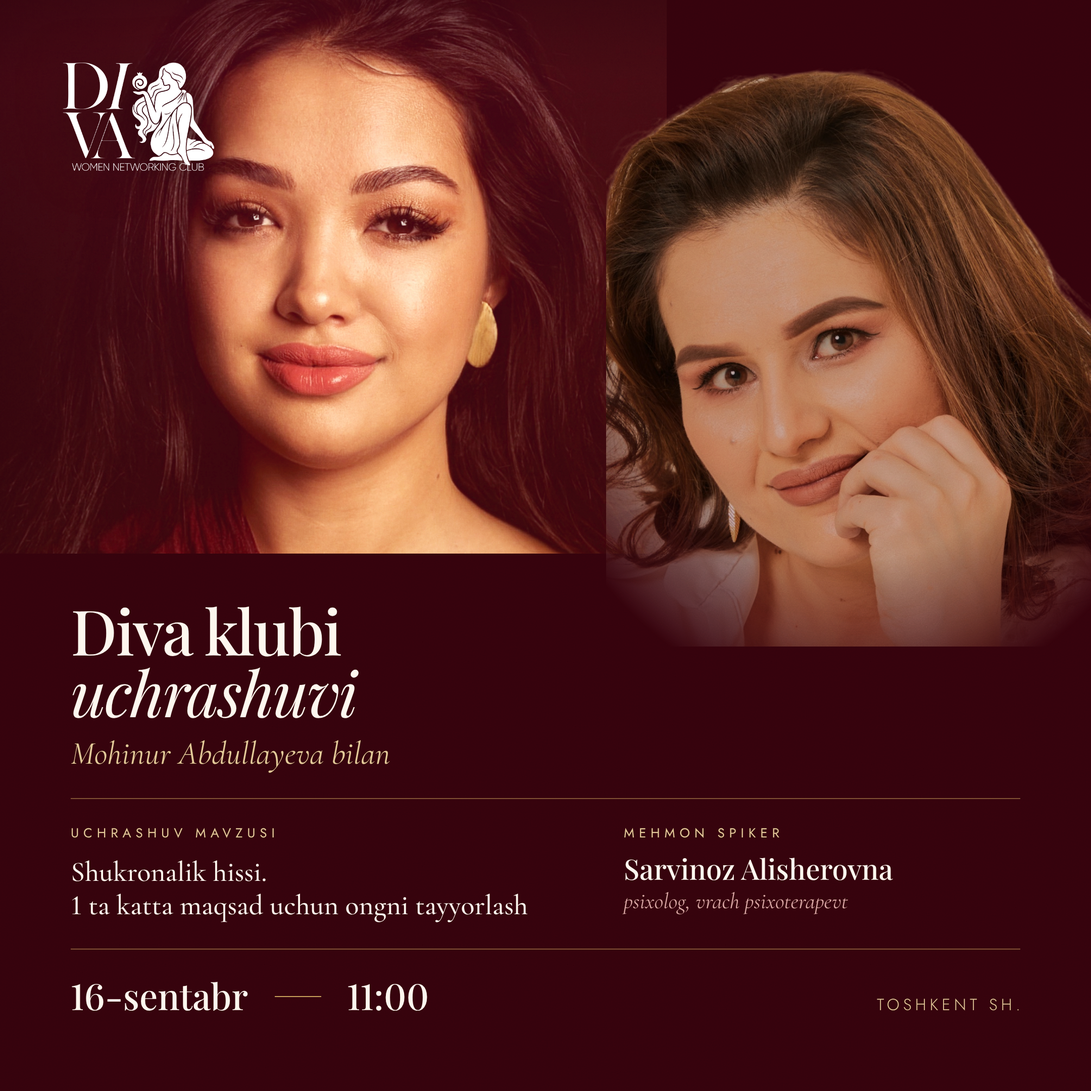
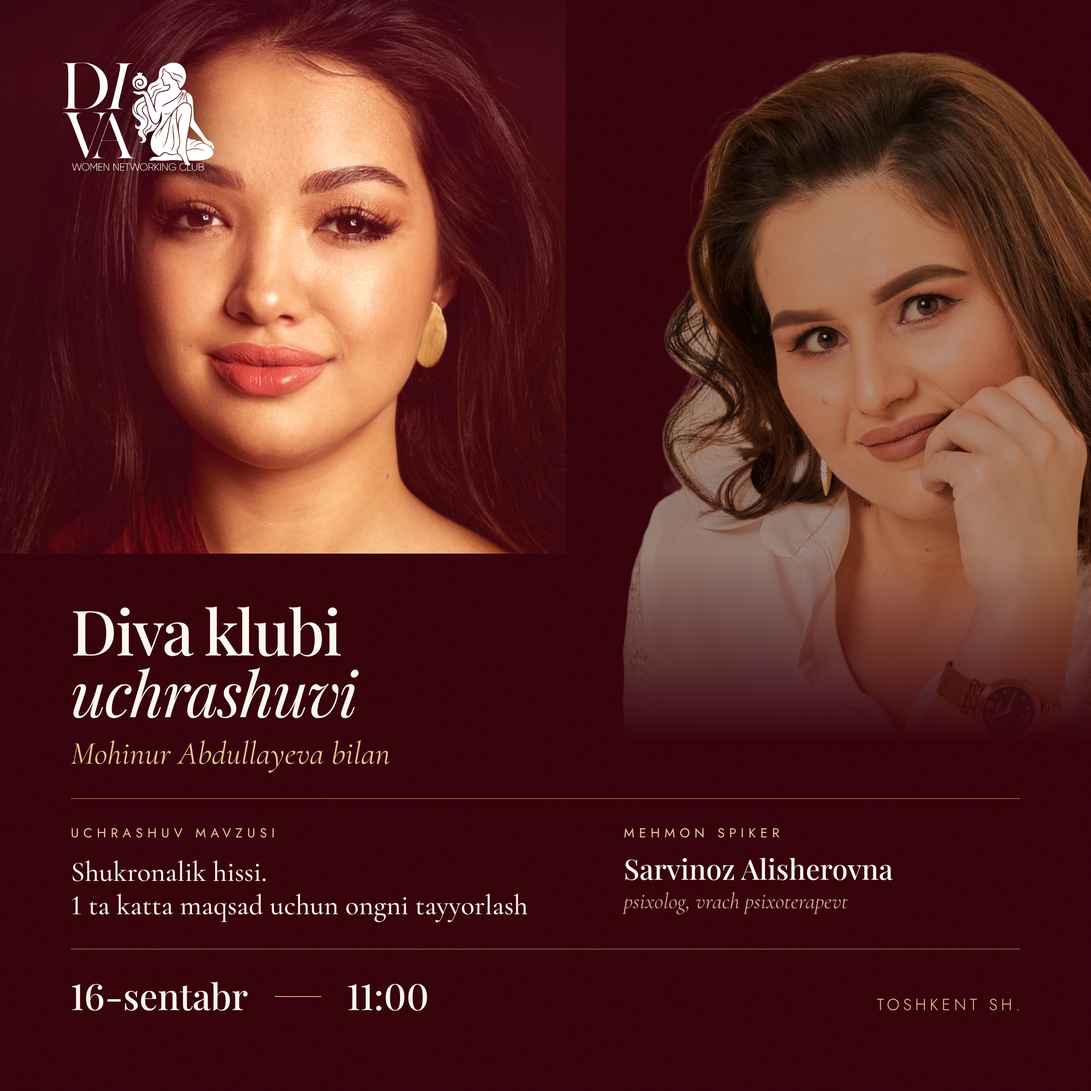
Rebuild direction A as modern maroon and free C's guest from her box
A drops the frame, the rings and the flourish: both women are cutouts
placed large, their lower bodies drunk by a maroon gradient masked to
their own silhouettes so they sink into the ground with no edge at all.

C's guest portrait was a pale rectangle sitting on maroon, which read as
the frame the redirect removes. She is now a cutout standing free in the
corner, cropped only by canvas edges, with a warm multiply masked to her
silhouette so she shares the hero's light instead of fighting it.

Claude-Session: https://claude.ai/code/session_01CJcxAKvhDYH9Z96uyo456t

Changed region(s): [[0.0931, 0.0, 1.0, 0.6514], [0.3412, 0.4963, 0.3722, 0.5273], [0.0931, 0.4032, 0.1241, 0.4343]]

diff --git a/diva-club-posts/variant-c.html b/diva-club-posts/variant-c.html
@@ -9,9 +9,10 @@
 /* =======================================================================
    VARIANT C — "Editorial"
    Photography leads. Mohinur full-bleed and enormous, her near-black studio
-   ground dissolved into deep maroon. A modern fashion-magazine grid:
-   two hairline gold rules, small-caps Jost labels, oversized Playfair.
-   No frames, no circles, no ornament.
+   ground dissolved into deep maroon. Sarvinoz is a background-removed cutout
+   standing directly on that maroon, cropped only by the canvas edges — the
+   same bleed Mohinur gets. No boxes, no frames, no circles, no ornament.
+   Structure is two gold hairlines and a modern Jost/Playfair grid.
    ======================================================================= */
 
 .canvas {
@@ -25,9 +26,9 @@
   --hy: -215px;
 
   /* guest framing, same technique */
-  --sz: 196%;
-  --sx: -78px;
-  --sy: 6px;
+  --sz: 178%;
+  --sx: -93px;
+  --sy: 76px;
 
   /* type scale */
   --t-title: 116px;
@@ -39,10 +40,7 @@
   --t-date: 48px;
   --t-city: 23px;
 
-  /* layout */
-  --gutter: 56px;
-  --sw: 430px;
-  --sh: 540px;
+  --col: 500px;   /* width of the type column */
 }
 
 /* ---------------------------------------------------------------- hero -- */
@@ -82,6 +80,43 @@
 
 /* quiet horizontal falloff so the left margin never competes with her */
 .side { background: linear-gradient(90deg, rgba(34,1,8,0.46) 0%, rgba(34,1,8,0) 30%); }
+
+/* --------------------------------------------------------------- guest -- */
+/* A cutout on the maroon: its only silhouette cuts are the canvas edges.
+   The tint layer is masked by the same cutout so it grades HER, not the
+   ground, and brings her warmth and density in line with the hero. */
+.sarv {
+  position: absolute;
+  right: 0;
+  bottom: 0;
+  width: 480px;
+  height: 760px;
+  overflow: hidden;
+  isolation: isolate;
+}
+.sarv > img {
+  position: absolute;
+  height: var(--sz);
+  width: auto;
+  left: var(--sx);
+  top: var(--sy);
+  display: block;
+  filter: saturate(0.93) contrast(1.05) brightness(0.77);
+}
+.sarv::after {
+  content: "";
+  position: absolute; inset: 0;
+  background: linear-gradient(200deg, rgba(208,140,134,0.34), rgba(174,98,100,0.52));
+  mix-blend-mode: multiply;
+  -webkit-mask-image: url("assets/cutout/sarvinoz-cut-soft.png");
+          mask-image: url("assets/cutout/sarvinoz-cut-soft.png");
+  -webkit-mask-size: auto var(--sz);
+          mask-size: auto var(--sz);
+  -webkit-mask-position: var(--sx) var(--sy);
+          mask-position: var(--sx) var(--sy);
+  -webkit-mask-repeat: no-repeat;
+          mask-repeat: no-repeat;
+}
 
 /* ------------------------------------------------------------- masthead -- */
 .mark {
@@ -125,24 +160,13 @@
   margin-top: 14px;
 }
 
-.rule { height: 1px; background: rgba(201,162,91,0.5); flex: 0 0 auto; }
+.rule { height: 1px; background: rgba(201,162,91,0.5); flex: 0 0 auto; max-width: var(--col); }
 .r1 { margin-top: 42px; }
 .r2 { margin-top: 38px; }
 
-/* information row: text column + guest portrait, both bounded by the rules */
-.row {
-  display: flex;
-  align-items: stretch;
-  gap: var(--gutter);
-  margin-top: 38px;
-}
-.col {
-  flex: 1 1 auto;
-  min-width: 0;
-  display: flex;
-  flex-direction: column;
-  justify-content: space-between;
-}
+/* information column — kept clear of the standing figure */
+.row { margin-top: 38px; max-width: var(--col); }
+.spk { margin-top: 44px; }
 
 .label {
   font-family: var(--sans);
@@ -179,47 +203,15 @@
   margin-top: 4px;
 }
 
-/* guest portrait — background-removed cutout standing directly on the maroon.
-   No box: the only edges are her own silhouette, and a radial mask dissolves
-   the extremes of her hair back into the ground. The tint layer is masked by
-   the same cutout so it grades HER, never the ground behind her. */
-.sarv, .duo {
-  position: relative;
-  -webkit-mask-image: radial-gradient(var(--dr) var(--drv) at var(--dcx) var(--dcy),
-                        #000 var(--d0), rgba(0,0,0,0) var(--d1));
-          mask-image: radial-gradient(var(--dr) var(--drv) at var(--dcx) var(--dcy),
-                        #000 var(--d0), rgba(0,0,0,0) var(--d1));
-  --dr: 60%; --drv: 56%; --dcx: 52%; --dcy: 39%; --d0: 88%; --d1: 132%;
-}
-.sarv { flex: 0 0 auto; width: var(--sw); height: var(--sh); }
-.sarv > img, .duo > img {
-  position: absolute;
-  height: var(--sz);
-  width: auto;
-  left: var(--sx);
-  top: var(--sy);
-  display: block;
-  filter: saturate(0.95) contrast(1.03) brightness(0.84);
-}
-/* warm density so she is lit for the same post as the maroon-washed hero */
-.sarv::after, .duo::after {
-  content: "";
-  position: absolute; inset: 0;
-  background: linear-gradient(200deg, rgba(216,154,148,0.30), rgba(190,116,116,0.44));
-  mix-blend-mode: multiply;
-  -webkit-mask-image: url("assets/cutout/sarvinoz-cut-soft.png");
-          mask-image: url("assets/cutout/sarvinoz-cut-soft.png");
-  -webkit-mask-size: auto var(--sz);
-          mask-size: auto var(--sz);
-  -webkit-mask-position: var(--sx) var(--sy);
-          mask-position: var(--sx) var(--sy);
-  -webkit-mask-repeat: no-repeat;
-          mask-repeat: no-repeat;
-}
-.duo { display: none; }
-
 /* ----------------------------------------------------------------- when -- */
-.when { display: flex; align-items: baseline; gap: 26px; margin-top: 30px; }
+.when {
+  display: flex;
+  flex-wrap: wrap;
+  align-items: baseline;
+  gap: 26px;
+  margin-top: 30px;
+  max-width: var(--col);
+}
 .date {
   font-family: var(--display);
   font-weight: 500;
@@ -234,44 +226,48 @@
   letter-spacing: 0.22em;
   text-transform: uppercase;
   color: var(--gold-soft);
-  margin-left: auto;
-  margin-right: -0.22em;
+  flex: 0 0 100%;
+  margin: 16px 0 0;
 }
 
 /* ======================================================= ratio overrides = */
 
-/* ---- 9:16 — full-height portrait, type stacked low ---- */
+/* ---- 9:16 — full-height portrait, type column left, figure bottom-right -- */
 html[data-r="9x16"] .canvas {
   --hz: 118%; --hx: -57px; --hy: -215px;
-  --sz: 268%; --sx: -203px; --sy: -154px;
+  --sz: 165%; --sx: -93px; --sy: 66px;
   --t-title: 116px; --t-with: 46px; --t-theme: 44px; --t-name: 38px;
   --t-role: 29px; --t-date: 48px; --t-city: 23px;
-  --sw: 434px; --sh: 506px; --gutter: 54px;
+  --col: 500px;
 }
+html[data-r="9x16"] .sarv { width: 480px; height: 820px; }
 
-/* ---- 4:5 — portrait dominates, guest block bottom-left ---- */
+/* ---- 4:5 — same logic, tighter: portrait dominates, figure bottom-right -- */
 html[data-r="4x5"] .canvas {
-  --hz: 132%; --hx: -50px; --hy: -205px;
-  --sz: 280%; --sx: -129px; --sy: -105px;
-  --t-title: 80px; --t-with: 36px; --t-label: 15px; --t-theme: 34px;
+  --hz: 126%; --hx: -30px; --hy: -200px;
+  --sz: 197%; --sx: -82px; --sy: 15px;
+  --t-title: 76px; --t-with: 35px; --t-label: 15px; --t-theme: 33px;
   --t-name: 30px; --t-role: 24px; --t-date: 40px; --t-city: 19px;
-  --sw: 360px; --sh: 356px; --gutter: 46px;
+  --col: 470px;
 }
 html[data-r="4x5"] .mark { width: 190px; }
-html[data-r="4x5"] .row { flex-direction: row-reverse; margin-top: 30px; }
+html[data-r="4x5"] .sarv { width: 500px; height: 600px; }
 html[data-r="4x5"] .r1 { margin-top: 32px; }
 html[data-r="4x5"] .r2 { margin-top: 30px; }
+html[data-r="4x5"] .row { margin-top: 30px; }
+html[data-r="4x5"] .spk { margin-top: 34px; }
 html[data-r="4x5"] .when { margin-top: 22px; }
+html[data-r="4x5"] .city { margin-top: 14px; }
 
-/* ---- 1:1 — double-portrait band over a full-width type band ---- */
+/* ---- 1:1 — photo block + standing figure over one full-width type band -- */
 html[data-r="1x1"] .canvas {
   --band: 548px;
-  --seam: 660px;
-  --hz: 230%; --hx: -91px; --hy: -104px;
-  --sz: 212%; --sx: -180px; --sy: 10px;
+  --seam: 560px;
+  --hz: 230%; --hx: -141px; --hy: -104px;
+  --sz: 168%; --sx: -11px; --sy: -5px;
   --t-title: 62px; --t-with: 32px; --t-label: 13px; --t-theme: 28px;
   --t-name: 28px; --t-role: 22px; --t-date: 36px; --t-city: 16px;
-  --gutter: 48px;
+  --col: 100%;
 }
 html[data-r="1x1"] .hero { inset: 0 auto auto 0; width: var(--seam); height: var(--band); }
 html[data-r="1x1"] .hero > .scrim {
@@ -279,21 +275,20 @@ html[data-r="1x1"] .hero > .scrim {
 }
 html[data-r="1x1"] .hero > .side { background: linear-gradient(90deg, rgba(34,1,8,0.26) 0%, rgba(34,1,8,0) 22%); }
 html[data-r="1x1"] .mark { width: 150px; top: 62px; left: 62px; }
-html[data-r="1x1"] .duo {
-  display: block;
-  position: absolute;
-  top: 0; left: 600px; right: 0;
-  height: 640px;
-  --dr: 58%; --drv: 54%; --dcx: 52%; --dcy: 40%; --d0: 86%; --d1: 130%;
+/* she stands past the photo block's baseline and dissolves before the type */
+html[data-r="1x1"] .sarv {
+  top: 0; bottom: auto; right: 0; left: 540px;
+  width: auto; height: 760px;
+  -webkit-mask-image: linear-gradient(180deg, #000 72%, rgba(0,0,0,0) 97%);
+          mask-image: linear-gradient(180deg, #000 72%, rgba(0,0,0,0) 97%);
 }
-html[data-r="1x1"] .sarv { display: none; }
 html[data-r="1x1"] .r1 { margin-top: 26px; }
 html[data-r="1x1"] .r2 { margin-top: 24px; }
-html[data-r="1x1"] .row { margin-top: 24px; }
-html[data-r="1x1"] .col { flex-direction: row; align-items: flex-start; gap: 48px; }
+html[data-r="1x1"] .row { margin-top: 24px; display: flex; align-items: flex-start; gap: 48px; }
 html[data-r="1x1"] .themeblock { flex: 1 1 56%; min-width: 0; }
-html[data-r="1x1"] .spk { flex: 1 1 44%; min-width: 0; }
-html[data-r="1x1"] .when { margin-top: 22px; }
+html[data-r="1x1"] .spk { flex: 1 1 44%; min-width: 0; margin-top: 0; }
+html[data-r="1x1"] .when { margin-top: 22px; flex-wrap: nowrap; }
+html[data-r="1x1"] .city { flex: 0 0 auto; margin: 0 0 0 auto; margin-right: -0.22em; }
 </style>
 </head>
 <body>
@@ -305,7 +300,7 @@ html[data-r="1x1"] .when { margin-top: 22px; }
     <div class="scrim"></div>
   </div>
 
-  <div class="duo"><img src="assets/cutout/sarvinoz-cut-soft.png" alt="Sarvinoz Alisherovna"></div>
+  <div class="sarv"><img src="assets/cutout/sarvinoz-cut-soft.png" alt="Sarvinoz Alisherovna"></div>
 
   <div class="layer grain"></div>
 
@@ -318,20 +313,16 @@ html[data-r="1x1"] .when { margin-top: 22px; }
     <div class="rule r1"></div>
 
     <div class="row">
-      <div class="col">
-        <div class="themeblock">
-          <div class="label">Uchrashuv mavzusi</div>
-          <div class="theme-text">Shukronalik hissi.<br>1 ta katta maqsad uchun ongni tayyorlash</div>
-        </div>
-
-        <div class="spk">
-          <div class="label">Mehmon spiker</div>
-          <div class="name">Sarvinoz Alisherovna</div>
-          <div class="role">psixolog, vrach psixoterapevt</div>
-        </div>
+      <div class="themeblock">
+        <div class="label">Uchrashuv mavzusi</div>
+        <div class="theme-text">Shukronalik hissi.<br>1 ta katta maqsad uchun ongni tayyorlash</div>
       </div>
 
-      <div class="sarv"><img src="assets/cutout/sarvinoz-cut-soft.png" alt="Sarvinoz Alisherovna"></div>
+      <div class="spk">
+        <div class="label">Mehmon spiker</div>
+        <div class="name">Sarvinoz Alisherovna</div>
+        <div class="role">psixolog, vrach psixoterapevt</div>
+      </div>
     </div>
 
     <div class="rule r2"></div>

diff --git a/diva-club-posts/variant-a.html b/diva-club-posts/variant-a.html
@@ -317,11 +317,11 @@ html[data-r="4x5"] .canvas {
 /* ====================================================================== 1:1 */
 html[data-r="1x1"] .canvas {
   --padX: 72px; --gTop: 56px; --gBot: 58px;
-  --logoW: 106px; --gapLogo: 16px; --gapHost: 6px;
+  --logoW: 108px; --gapLogo: 12px; --gapHost: 4px;
   --figW: 537px; --figH: 690px; --figOv: 138px;
-  --stageTop: 316px; --stageShift: 16px;
+  --stageTop: 308px; --stageShift: 16px;
   --fadeA: 50%; --fadeB: 68%; --sinkA: 30%; --sinkM: 52%;
-  --namesTop: 730px; --capW: 400px; --capOff: 173px; --scrimTop: 560px;
+  --namesTop: 722px; --capW: 400px; --capOff: 173px; --scrimTop: 560px;
   --fsTitle: 54px; --fsHost: 30px;
   --fsTag: 13px; --fsName: 27px; --fsRole: 21px;
   --fsLbl: 14px; --fsTopic: 34px; --fsTopic2: 24px;
